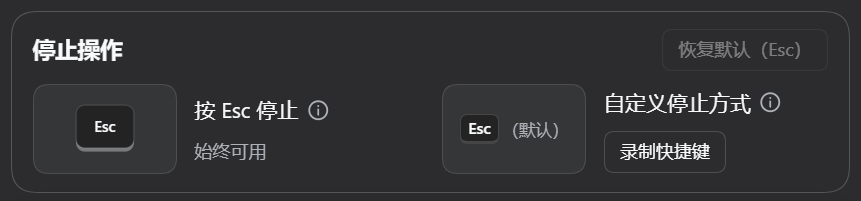
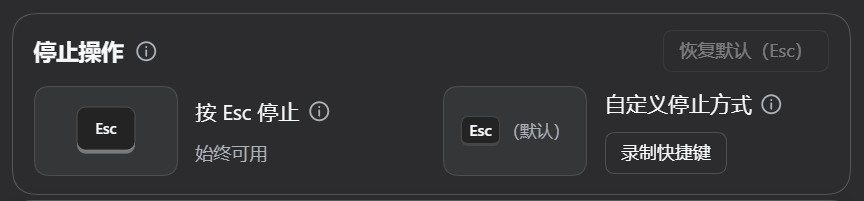
docs: 0.6.0 screenshots and setting names; Excel value-after-dialog note
- README (both files, zh and en): the five settings screenshots are
  recaptured from DSH Desktop 2.0.18 running 0.6.0 (version next to the
  title, folded GitHub link, Custom starting with every tool checked).
  Setting names follow the 0.6.0 interface: 优先使用网页控件, 保留网站登录,
  连接现有浏览器（实验）, 原文 / AI 总结; Connect browser (experimental),
  Source. Section 2 dates the screenshots.
- Diagrams: the same names in how-it-works and architecture; the PNGs are
  re-rendered with render.mjs.
- docs/computer-use-settings.md: setting names aligned with 0.6.0; a
  visible DSH browser idles two hours before closing, not ten minutes.
- Excel instructions: type a value such as the width only after the
  dialog is observed, since keys sent while a key tip did not engage land
  in the cell (seen in the manual Excel run). Tool-context sizes remeasured.

diff --git a/assets/diagrams/architecture.html b/assets/diagrams/architecture.html
@@ -121,7 +121,7 @@ Diagram.render({
     bridge: '官方 MCP 桥', bridge1: '启动服务进程，转发工具调用',
     server: 'MCP 服务', serverTag: 'Node 进程',
     presetAll: '全部 26', presetLite: '精简 12', presetLazy: '懒启动 1', presetCustom: '自定义',
-    server1: '检查参数，再把每次调用交给对应的通道', server2: '输入类操作标为“已发送”，再用 wait_for 确认效果', server3: '超时、按 Esc 或点 DSH 的停止按钮时取消请求', server4: '打开“优先用网页控件操作”时，提示 agent 网页先走浏览器通道',
+    server1: '检查参数，再把每次调用交给对应的通道', server2: '输入类操作标为“已发送”，再用 wait_for 确认效果', server3: '超时、按 Esc 或点 DSH 的停止按钮时取消请求', server4: '打开“优先使用网页控件”时，提示 agent 网页先走浏览器通道',
     helper: '接管助手', helperTag: '独立进程',
     helper1: '用到键鼠时显示边缘光晕、<br>提示条和鼠标旁的 DSH 标签', helper4: '思考与操作浮窗：按步骤<br>显示 DSH 的思考和操作', helper2: '监听 Esc 和你设的快捷键', helper3: '后端正忙时也能收到 Esc',
     lane: '浏览器通道', laneTag: '在 MCP 服务里运行',
@@ -129,8 +129,8 @@ Diagram.render({
     backend: 'PowerShell 后端', backendTag: '常驻运行，一次执行一个请求',
     capUia: '读控件、按按钮、填内容', capInput: '鼠标和键盘', capInput1: '点击、按键、粘贴文字', capWindow: '窗口', capWindow1: '列出、切换、移动、关闭', capCapture: '截图', capCapture1: '整个屏幕或单个窗口', capOcr: '文字识别',
     browser: 'DSH 专用浏览器', browser1: '用你的默认浏览器，也可选 Edge 或 Chrome', browser2: '默认用临时空白配置，不带你的登录和 Cookie', browser3: '默认显示窗口但不抢前台，也可以只在后台运行',
-    browserOwn: '打开“保留网站登录状态”后保留一个配置：<br>在它窗口里登录过的网站一直保持登录',
-    browserAttach: '实验性：打开“操作已打开的浏览器”，并在浏览器里点“允许”后，也能操作你自己已经打开的 Chrome 或 Edge',
+    browserOwn: '打开“保留网站登录”后保留一个配置：<br>在它窗口里登录过的网站一直保持登录',
+    browserAttach: '实验性：打开“连接现有浏览器”，并在浏览器里点“允许”后，也能操作你自己已经打开的 Chrome 或 Edge',
     desktop: '你的 Windows 桌面', app1: '记事本', app2: '浏览器', app3: '计算器', app4: '网易云音乐', app5: '其他程序',
     desktop1: '优先在后台操作控件；要用鼠标键盘时只借用前台，用完还给你', desktop2: '浏览器的工具栏，以及浏览器通道读不到的网页内容（如 iframe），<br>也由电脑操控在这里完成',
     legendOwn: '本插件的代码', legendExt: 'DSH、Windows 或浏览器提供',
@@ -158,7 +158,7 @@ Diagram.render({
     capUia: 'read, press, fill in', capInput: 'Mouse and keys', capInput1: 'click, press keys, paste', capWindow: 'Windows', capWindow1: 'list, switch, move, close', capCapture: 'Capture', capCapture1: 'screen or one window', capOcr: 'Text recognition',
     browser: 'The DSH browser', browser1: 'Your default browser, or Edge or Chrome', browser2: 'By default a fresh temporary profile: none of your sign-ins or cookies', browser3: 'A visible window that does not take the foreground, or background only',
     browserOwn: 'With Keep website sign-ins on, it keeps one profile:<br>sites you sign in to there stay signed in',
-    browserAttach: 'Experimental: with Use an already open browser on and Allow clicked in that browser, it also works in your own Chrome or Edge',
+    browserAttach: 'Experimental: with Connect browser on and Allow clicked in that browser, it also works in your own Chrome or Edge',
     desktop: 'Your Windows desktop', app1: 'Notepad', app2: 'Browser', app3: 'Calculator', app4: 'NetEase Cloud Music', app5: 'Other apps',
     desktop1: 'Uses controls in the background where it can; mouse and keyboard input only borrows the foreground', desktop2: 'Computer Use also handles the browser toolbar and page content the browser lane cannot read, such as iframes',
     legendOwn: 'This plugin’s code', legendExt: 'Provided by DSH, Windows or the browser',

diff --git a/assets/diagrams/how-it-works.html b/assets/diagrams/how-it-works.html
@@ -150,7 +150,7 @@ Diagram.render({
     s1Open: '托盘图标右键 →“打开 DSH 终端”，运行：',
     s1Restart: '再右键托盘图标 →“退出”，然后重新打开 DSH Desktop。',
     s1Settings: '“设置 → 电脑操控”里可以调网页与浏览器、接管提示、思考与操作浮窗和工具。不改也能直接用：',
-    setTitle: '网页与浏览器', setFirst: '优先用网页控件操作', setVisible: '显示 DSH 浏览器窗口',
+    setTitle: '网页与浏览器', setFirst: '优先使用网页控件', setVisible: '显示 DSH 浏览器窗口',
     s2Title: '在对话里布置任务',
     s2Ask: '在浏览器的新窗口中搜索<span class="nb">“晴天”</span>，确认结果页出现<span class="nb">“周杰伦”</span>。',
     rowType: '输入了文本', rowKey: '发送了按键', rowCheck: '检查了操作结果', done: '已完成',

diff --git a/docs/computer-use-settings.md b/docs/computer-use-settings.md
@@ -12,17 +12,17 @@
 
 ### 浏览器操控（Browser Use）
 
-默认打开“网页优先用浏览器操控”和“显示浏览器窗口”。DSH 专用浏览器单独启动，用哪个浏览器由“使用的浏览器”决定：默认跟随 Windows 的默认浏览器，默认浏览器不是 Edge 或 Chrome 时用已安装的 Chrome 或 Edge。默认使用临时的空白配置，不加载扩展，不带你的登录、Cookie 和浏览记录（打开“记住登录”后改用保留的配置，见下段）；退出 DSH 后关闭；无头模式空闲 10 分钟、可见窗口空闲 2 小时后自动关闭，页面活动也延长计时。窗口请求在后台创建，普通网页操作不移动系统鼠标；Chrome 的 JavaScript 模态弹窗实测可能短暂来到前台，不能保证可见浏览器始终不影响焦点；你可以自己切换标签页观看。提示参照 Codex 的浏览器操控，不遮挡网页内容：专用浏览器的窗口框是 DSH 蓝，和你自己的浏览器一眼能分开；DSH 正在操作的标签页，图标换成蓝色箭头，这一轮结束后换回网页自己的图标；网页上一个带光晕的小箭头停在 DSH 点的位置，鼠标点击会穿过它，截图里也没有它。关掉“显示浏览器窗口”后，浏览器在后台运行，没有窗口。JavaScript 模态弹窗会暂停页面脚本，标签页图标在弹窗关闭后同步。
+默认打开“优先使用网页控件”和“显示 DSH 浏览器窗口”。DSH 专用浏览器单独启动，用哪个浏览器由“浏览器类型”决定：默认跟随 Windows 的默认浏览器，默认浏览器不是 Edge 或 Chrome 时用已安装的 Chrome 或 Edge。默认使用临时的空白配置，不加载扩展，不带你的登录、Cookie 和浏览记录（打开“保留网站登录”后改用保留的配置，见下段）；退出 DSH 后关闭；无头模式空闲 10 分钟、可见窗口空闲 2 小时后自动关闭，页面活动也延长计时。窗口请求在后台创建，普通网页操作不移动系统鼠标；Chrome 的 JavaScript 模态弹窗实测可能短暂来到前台，不能保证可见浏览器始终不影响焦点；你可以自己切换标签页观看。提示参照 Codex 的浏览器操控，不遮挡网页内容：专用浏览器的窗口框是 DSH 蓝，和你自己的浏览器一眼能分开；DSH 正在操作的标签页，图标换成蓝色箭头，这一轮结束后换回网页自己的图标；网页上一个带光晕的小箭头停在 DSH 点的位置，鼠标点击会穿过它，截图里也没有它。关掉“显示 DSH 浏览器窗口”后，浏览器在后台运行，没有窗口。JavaScript 模态弹窗会暂停页面脚本，标签页图标在弹窗关闭后同步。
 
-多个 DSH 会话使用同一个保留配置时共用浏览器。结束最早启动它的会话不会关闭其他会话正在用的标签页；最后一个会话退出后正常关闭并保存 Cookie。所有服务意外结束时，独立清理进程会在确认没有活跃会话后关闭浏览器。不同会话的“显示浏览器窗口”设置不一致时会明确报冲突，先结束旧会话或统一设置再重试。
+多个 DSH 会话使用同一个保留配置时共用浏览器。结束最早启动它的会话不会关闭其他会话正在用的标签页；最后一个会话退出后正常关闭并保存 Cookie。所有服务意外结束时，独立清理进程会在确认没有活跃会话后关闭浏览器。不同会话的“显示 DSH 浏览器窗口”设置不一致时会明确报冲突，先结束旧会话或统一设置再重试。
 
-“记住登录（cookies）”默认关闭。打开后，DSH 专用浏览器给每个浏览器保留一个配置（`%LOCALAPPDATA%\dsh-computer-use-win\agent-browser` 下的 `kept-edge`、`kept-chrome`），不再每次用临时配置：你在它的窗口里登录过的网站，之后的任务里还是登录状态，会话 Cookie 也保留。第一次用到要登录的网站时，agent 会请你在这个窗口里登录一次，密码和验证码由你自己输入；“显示浏览器窗口”关着时要先打开它。使用 DSH 专用浏览器时不用设置你自己的浏览器，也不弹允许提示。另选“连接我自己的浏览器”时按下面的实验选项说明操作。用 Edge 时，Edge 会自动用 Windows 上的微软账户登录这个配置，微软自家的网站直接是登录状态（实测 Edge 156 没有开关能关掉）；不想这样就选 Chrome。关掉开关后登录仍然保留，要全部清除，退出 DSH 后删除这个文件夹。打开这个开关时，设置页会说明这些，并列出风险：DSH 会以你的身份操作你在这里登录过的网站；网页上的文字可能诱导 agent；不使用本地调试端口，但登录保存在本地配置文件夹中，同账户下的本机其他程序也能读取使用。更改这两项会在当前动作结束后重连插件服务，并关闭已打开的 DSH 浏览器。
+“保留网站登录”默认关闭。打开后，DSH 专用浏览器给每个浏览器保留一个配置（`%LOCALAPPDATA%\dsh-computer-use-win\agent-browser` 下的 `kept-edge`、`kept-chrome`），不再每次用临时配置：你在它的窗口里登录过的网站，之后的任务里还是登录状态，会话 Cookie 也保留。第一次用到要登录的网站时，agent 会请你在这个窗口里登录一次，密码和验证码由你自己输入；“显示 DSH 浏览器窗口”关着时要先打开它。使用 DSH 专用浏览器时不用设置你自己的浏览器，也不弹允许提示。另选“连接现有浏览器”时按下面的实验选项说明操作。用 Edge 时，Edge 会自动用 Windows 上的微软账户登录这个配置，微软自家的网站直接是登录状态（实测 Edge 156 没有开关能关掉）；不想这样就选 Chrome。关掉开关后登录仍然保留，要全部清除，退出 DSH 后删除这个文件夹。打开这个开关时，设置页会说明这些，并列出风险：DSH 会以你的身份操作你在这里登录过的网站；网页上的文字可能诱导 agent；不使用本地调试端口，但登录保存在本地配置文件夹中，同账户下的本机其他程序也能读取使用。更改这两项会在当前动作结束后重连插件服务，并关闭已打开的 DSH 浏览器。
 
 浏览器操控、读取界面（截图、控件树、文字识别、等待）和在后台完成的控件操作，都不显示屏幕边缘、提示条和鼠标标签，也不挂全局 Esc：这样的一轮操作里，你在其他程序按 Esc 不会被拦下；要停止，用 DSH 里的停止按钮。同一轮里一旦用到真实的鼠标或键盘，接管提示和 Esc 从这一步开始照常生效；按 Esc 停下的一轮，后续的浏览器操控也不再执行。
 
 网页能完成的步骤优先使用浏览器通道；原生应用、浏览器工具栏、无可用 CDP 连接、浏览器通道无法处理的内容，转为同一目标窗口的 UIA，再用截图/OCR/坐标兜底。必须重新读取桌面状态，不把网页坐标当屏幕坐标。不确定是否成功的动作先观察再决定，不能盲目重放。停止、取消、权限拒绝、禁用或只读控件，不允许通过桌面输入绕过。临时浏览器没有用户登录状态，不能代替已登录工作流。精简/自定义禁用 set_value 时不能新开标签页。设置修改在当前动作完成后重连，会关闭临时浏览器。
 
-Firefox 系网页通道为实验功能：选择“Firefox 系（实验性）”后，自动启动需关闭“显示浏览器窗口”；也可以通过显式 BiDi 端点连接单独启动的浏览器。默认浏览器选项仍按上述 Chrome/Edge 规则回退。Firefox 不具备上述蓝色状态提示、可见登录和多会话共享流程；具体范围见 [BiDi 说明](browser-bidi.md)。桌面通道读取现有 Gecko 窗口无需启用实验选项。
+Firefox 系网页通道为实验功能：选择“Firefox 系（实验性）”后，自动启动需关闭“显示 DSH 浏览器窗口”；也可以通过显式 BiDi 端点连接单独启动的浏览器。默认浏览器选项仍按上述 Chrome/Edge 规则回退。Firefox 不具备上述蓝色状态提示、可见登录和多会话共享流程；具体范围见 [BiDi 说明](browser-bidi.md)。桌面通道读取现有 Gecko 窗口无需启用实验选项。
 
 ### 工具加载
 
@@ -58,13 +58,13 @@ Upgrade and fully restart DSH Desktop, then open **Settings → Computer Use** (
 
 The plugin list shows a short introduction that opens the complete settings page. Star and Issue links stay at the top of that page; Collapse folds that note into one dsh-computer-use-win link with the GitHub mark and Expand restores it. The choice saves at once, persists across restarts and upgrades, and neither saves nor discards other pending changes. An unavailable host form shows an explicit state and cannot be edited. Version 0.4.3 supplies live-field metadata and the shared reference protocol for mixed-version validators, and confirms saved values against the host response.
 
-Prefer Browser Use for web pages and Show the browser window are on by default. The DSH browser starts separately, in the browser chosen under Browser (by default the Windows default browser, and an installed Chrome or Edge when that is neither), with no extensions and, by default, a temporary empty profile: none of your sign-ins, cookies or history (with Keep sign-ins on it keeps one profile instead; see below). It closes when DSH exits or after 10 idle minutes. Its window is requested in the background and page actions never move the desktop pointer. Chrome JavaScript modal dialogs may briefly activate the window, so visible operation is not an unconditional focus guarantee. As in Codex's Browser Use, nothing covers the page: the window frame is DSH blue, so it is never taken for your own browser; the tab DSH works in shows a blue arrow as its icon until the turn ends, then its own icon again; and a small glowing arrow rests where DSH clicks. Clicks pass through the arrow, and screenshots leave it out. With Show the browser window off, the browser runs in the background with no window. Browser Use, reads (screenshots, control trees, OCR, waits) and control actions done in the background show no screen edges, banner or pointer tag and arm no global Esc, so Esc keeps working in your other apps; stop such a turn with the stop button in DSH. Once a turn uses the real mouse or keyboard, the indicator and Esc apply from that call on, and a series stopped with Esc refuses its later Browser Use calls too.
+Prefer web page controls and Show the DSH browser window are on by default. The DSH browser starts separately, in the browser chosen under Browser type (by default the Windows default browser, and an installed Chrome or Edge when that is neither), with no extensions and, by default, a temporary empty profile: none of your sign-ins, cookies or history (with Keep website sign-ins on it keeps one profile instead; see below). It closes when DSH exits, after 10 idle minutes when headless, or after two idle hours with a visible window. Its window is requested in the background and page actions never move the desktop pointer. Chrome JavaScript modal dialogs may briefly activate the window, so visible operation is not an unconditional focus guarantee. As in Codex's Browser Use, nothing covers the page: the window frame is DSH blue, so it is never taken for your own browser; the tab DSH works in shows a blue arrow as its icon until the turn ends, then its own icon again; and a small glowing arrow rests where DSH clicks. Clicks pass through the arrow, and screenshots leave it out. With Show the DSH browser window off, the browser runs in the background with no window. Browser Use, reads (screenshots, control trees, OCR, waits) and control actions done in the background show no screen edges, banner or pointer tag and arm no global Esc, so Esc keeps working in your other apps; stop such a turn with the stop button in DSH. Once a turn uses the real mouse or keyboard, the indicator and Esc apply from that call on, and a series stopped with Esc refuses its later Browser Use calls too.
 
-DSH sessions using the same kept profile share one browser. Ending its first client preserves other clients’ tabs; the last client closes it gracefully to save cookies. A detached cleanup watcher closes it after all clients unexpectedly exit. Conflicting Show browser window settings produce an explicit error; end the older session or align the settings before retrying.
+DSH sessions using the same kept profile share one browser. Ending its first client preserves other clients’ tabs; the last client closes it gracefully to save cookies. A detached cleanup watcher closes it after all clients unexpectedly exit. Conflicting Show the DSH browser window settings produce an explicit error; end the older session or align the settings before retrying.
 
-Keep sign-ins (cookies) is off by default. When on, the DSH browser keeps one profile per browser (`kept-edge`, `kept-chrome` under `%LOCALAPPDATA%\dsh-computer-use-win\agent-browser`) instead of a temporary one: sites you sign in to in its window stay signed in for later tasks, session cookies included. The first time a task needs a site that asks you to sign in, the agent asks you to sign in once in that window; you type passwords and codes yourself, and Show the browser window must be on. Your own browser is never touched: no remote debugging to turn on and no prompts to allow. With Edge, Edge signs this profile in with the Microsoft account of your Windows, so Microsoft’s own sites are signed in already (Edge 156 has no switch for this); choose Chrome to avoid it. Sign-ins stay when you turn the switch off; to remove them all, exit DSH and delete the folder. With the switch on, the settings page explains this and lists the risks: DSH acts as you on the sites you signed in to there; page text can try to steer the agent; no local debugging port is opened, though other programs under your Windows account can still read sign-ins stored in that profile folder. Changing Browser or Keep sign-ins reconnects the plugin’s server after the current action and closes open DSH browsers.
+Keep website sign-ins is off by default. When on, the DSH browser keeps one profile per browser (`kept-edge`, `kept-chrome` under `%LOCALAPPDATA%\dsh-computer-use-win\agent-browser`) instead of a temporary one: sites you sign in to in its window stay signed in for later tasks, session cookies included. The first time a task needs a site that asks you to sign in, the agent asks you to sign in once in that window; you type passwords and codes yourself, and Show the DSH browser window must be on. Your own browser is never touched: no remote debugging to turn on and no prompts to allow. With Edge, Edge signs this profile in with the Microsoft account of your Windows, so Microsoft’s own sites are signed in already (Edge 156 has no switch for this); choose Chrome to avoid it. Sign-ins stay when you turn the switch off; to remove them all, exit DSH and delete the folder. With the switch on, the settings page explains this and lists the risks: DSH acts as you on the sites you signed in to there; page text can try to steer the agent; no local debugging port is opened, though other programs under your Windows account can still read sign-ins stored in that profile folder. Changing Browser type or Keep website sign-ins reconnects the plugin’s server after the current action and closes open DSH browsers.
 
-Firefox-family Browser Use is experimental: select Firefox family, or configure a separately started BiDi endpoint. The Firefox that the plugin starts runs headless, so choosing Firefox family turns Show the browser window off and locks it until another browser is chosen, which restores its earlier state. Discovery starts with the Windows default browser when it is a Firefox-family one. The default selection retains its Chrome/Edge fallback. The blue status UI, automatic visible sign-in and cross-client sharing described above do not apply to BiDi; see [its scope](browser-bidi.md). Gecko desktop accessibility does not require this option.
+Firefox-family Browser Use is experimental: select Firefox family, or configure a separately started BiDi endpoint. The Firefox that the plugin starts runs headless, so choosing Firefox family turns Show the DSH browser window off and locks it until another browser is chosen, which restores its earlier state. Discovery starts with the Windows default browser when it is a Firefox-family one. The default selection retains its Chrome/Edge fallback. The blue status UI, automatic visible sign-in and cross-client sharing described above do not apply to BiDi; see [its scope](browser-bidi.md). Gecko desktop accessibility does not require this option.
 
 Choose **All / Lite / Lazy / Custom** in one row; a line below describes the selected preset, and each setting shows a small picture of its effect beside its name and switch, two to a row. Details open above the ⓘ icon on hover, click or keyboard focus, so the pointer never covers them; the pointer can move onto the text, a click keeps it open, and Esc or a click elsewhere closes it. All is the default (26 entries); Lite loads 12. Custom reveals the indented checklist with individual/group selection, select-all and disable-all. Preset changes preserve your custom selection. Save applies after the current action finishes and survives restart. Management cannot re-enable user-disabled tools.
 
@@ -88,7 +88,7 @@ Cancellation is cooperative at segmented-input and post-resolution execution bou
 
 详细设置默认收起在 **更多选项** 中，展开后可调整不透明度、大小、位置和锁定快捷键。标题栏标明“即时生效”的显示开关、锁定开关与 **打开浮窗并调整** 按钮始终可见，拨动开关立即应用。
 
-**浮窗内容** 提供两种模式，默认选择 **直接显示 DSH 输出**：按步骤转发现有输出，不额外调用模型、不增加模型 token。选择 **AI 总结当前操作** 后，使用当前对话所选的模型（不开推理），把已完成的步骤和正在做的操作写成一两句易懂的话，会额外消耗输入和输出 token：开始约 1.5 秒后请求第一条，之后最多每 10 秒一次，内容不变时不重复请求；任务结束时再请求一次结果总结。新的一步不会打断正在生成的总结，上一条总结一直显示到下一条出来，标题注明是第几步时的总结。输入只有动作名和已经显示的文字，限 2400 字符；输出最多 192 token，8 秒超时。总结不会加入对话上下文，也不会执行工具；暂不可用时显示操作步骤，结束后显示回复原文。关闭浮窗、切回原文或换到下一轮会取消在途总结，已消耗的 token 不能撤回。约 40 秒的任务大约请求 4–5 次。
+**浮窗内容** 提供两种模式，默认选择 **原文**：按步骤转发现有输出，不额外调用模型、不增加模型 token。选择 **AI 总结** 后，使用当前对话所选的模型（不开推理），把已完成的步骤和正在做的操作写成一两句易懂的话，会额外消耗输入和输出 token：开始约 1.5 秒后请求第一条，之后最多每 10 秒一次，内容不变时不重复请求；任务结束时再请求一次结果总结。新的一步不会打断正在生成的总结，上一条总结一直显示到下一条出来，标题注明是第几步时的总结。输入只有动作名和已经显示的文字，限 2400 字符；输出最多 192 token，8 秒超时。总结不会加入对话上下文，也不会执行工具；暂不可用时显示操作步骤，结束后显示回复原文。关闭浮窗、切回原文或换到下一轮会取消在途总结，已消耗的 token 不能撤回。约 40 秒的任务大约请求 4–5 次。
 
 不透明度可设 20–100%，宽度 240–1600 像素，高度 160–1600 像素；位置可选四角或自定义 X/Y（支持负坐标）。锁定时不抢焦点、鼠标穿透，不会挡住你或 DSH 的点击。右上角的锁形图标就是锁定按钮：把光标移上去停约 0.4 秒（按钮上转一圈进度环），浮窗临时解锁，可以拖标题移动、拖边缘缩放、滚动正文；光标离开浮窗约 1.5 秒后自动锁回，点开锁图标则立即锁回。临时解锁不改锁定设置，期间的移动和缩放照常保存；锁回后光标要先离开按钮，再停上去才会再次解锁。悬停解锁只认物理鼠标（低级鼠标钩子里没有注入标记的移动），DSH 用 SendInput 发出的输入和用 SetCursorPos 移过去的光标都不会触发；远程控制软件注入的鼠标同样不会触发，这时请用锁定开关或快捷键。解锁时（设置里关闭锁定、预览或悬停解锁）右上角是开锁图标和 ×：点开锁图标锁定（设置里本来是解锁的，会把锁定写回设置），点 × 仅关闭当前预览或收起本轮浮窗，不会关掉设置里的浮窗开关（下轮任务仍照常显示）。正在悬停解锁或拖动时，任务结束、保留期满或预览到时都会等调整完再收起。锁定快捷键可自定义，例如 `Ctrl+Alt+P`，再次按下切换锁定；不能使用 Esc 或与停止键重复。留空时仍可从设置页切换锁定。
 
@@ -108,4 +108,4 @@ Cancellation is cooperative at segmented-input and post-resolution execution bou
 
 The progress overlay is **on by default** and can be disabled under Settings → Computer Use. It shows the work step by step: one heading per model step with plain-language action names taken from tool names and the shape of the call only (never typed text, URLs or coordinates), followed by the reasoning and reply DSH already emitted for that step; older steps keep their last lines and the last 24 steps can be scrolled back. When the turn ends the header reads done, stopped or error with the step count and time taken, and the overlay stays 20 seconds, showing a long reply from its start (the first 1,200 characters, ending in “…”, for a longer one). Summary mode asks the conversation's model (reasoning off) for a sentence or two about 1.5 s after work starts, then at most every 10 s, and once more for the result when the turn ends; a new step does not cancel a running summary. Configure opacity (20–100%), width/height, a corner or custom X/Y, locked state and a lock shortcut. Locked passes mouse input through, and the padlock in the top-right corner is the lock button: resting the user's own pointer on it for about 0.4 s (a ring fills) unlocks the overlay until the pointer has been away for about 1.5 s, so it can be dragged by the title, resized at the edges and scrolled; clicking the open padlock locks it at once. This temporary unlock never changes the saved lock setting, while moves and resizes are saved as usual. Only physical mouse movement counts (low-level hook events without the injected flag), so neither DSH's SendInput input nor a cursor it placed with SetCursorPos can unlock it; mouse input injected by remote-control software cannot either, so use the switch or the shortcut there. Unlocked, the overlay shows the open padlock (click to lock; this saves the lock when the setting was unlocked) and × to close (closing the adjustment preview or dismissing only the current turn without turning off the overlay setting), without activation. An overlay being adjusted stays until the user is done, and a quick second move or resize is not pulled back by the settings echo of the first. **Open overlay to adjust** saves and applies overlay tuning right away without saving the rest of the form (while the display and lock switches above apply immediately, marked **Saves instantly** in the header) and shows a 60-second preview that is unlocked only while it lasts; clicking × finishes the preview cleanly without turning off the overlay feature, and otherwise the saved lock state is restored afterwards unless the user toggles it during the preview. Menu edits and native move/resize/lock events use the same DSH settings service and persist together. Stale native events cannot overwrite newer menu values. Only the current computer-use session's emitted reasoning/reply text is displayed; models with no reasoning output show status only. The overlay alone never arms the desktop Esc stop key.
 
-Attach to my own browser is experimental and off by default. Enable remote debugging in the selected browser's inspect page. Listing reads its port file without a handshake. Ask the user to allow the connection, then `set_value` the offered `<browser id>:connect` handle to `connect`. The selected browser alone is offered; Firefox family is unsupported. There is no automatic retry after refusal/timeout/cancellation. Close any old prompt before explicitly retrying. Connection grants access to signed-in pages; only use requested or DSH-opened tabs and keep the existing confirmation rules for consequential actions. Disconnecting never closes this browser.
+Connect browser (experimental) is off by default. Enable remote debugging in the selected browser's inspect page. Listing reads its port file without a handshake. Ask the user to allow the connection, then `set_value` the offered `<browser id>:connect` handle to `connect`. The selected browser alone is offered; Firefox family is unsupported. There is no automatic retry after refusal/timeout/cancellation. Close any old prompt before explicitly retrying. Connection grants access to signed-in pages; only use requested or DSH-opened tabs and keep the existing confirmation rules for consequential actions. Disconnecting never closes this browser.

diff --git a/CHANGELOG.md b/CHANGELOG.md
@@ -16,7 +16,7 @@
   - 点元素之前先确认它看得见、能用，而且那个位置上确实是它，被别的东西挡住就不点；同一程序的其他窗口（比如另一个资源管理器窗口）不再当作目标窗口。/ Element clicks check that the element is visible, enabled and really under the point; other windows of the same program no longer count as the target.
   - 按窗口标题找窗口时，先找完全相同的，再找开头相同的，最后找包含的；对上多个就报错并列出候选窗口的句柄，不再随便挑第一个。只给进程号时，只在有标题、看得见的窗口里挑，程序自带的隐藏窗口（输入法、DDE 等）不算。/ A window title matches exactly, then by prefix, then as a substring, and several matches are refused with the candidates' handles; a process id alone picks among titled visible windows, ignoring a program's hidden helper windows.
   - 坐标点击不再悄悄按“窗口挪动了多少”去改位置；需要按窗口移动修正时，把观察结果里的 `observationToken` 一起传回。/ Coordinate clicks are corrected for window movement only when the observation's `observationToken` is passed back.
-  - `keypress` 新增 `thenKeys`：一次调用按顺序按下几组键，整个过程只借用一次前台，中间不把前台还回去，所以 Excel 功能区的 Alt、H、O、W 这类连续按键不会被打断；每组键之前照常检查 Esc 和前台，出错就停下，已经按下的键不会重发。给模型的说明里也补上了 Excel 排版的做法：用 Ctrl+G 选定区域，列宽填数字或自动调整，长文字设好宽度后打开自动换行，再自动调整行高，最后检查保存的结果。/ `keypress` takes `thenKeys`: several chords in order within one foreground lease, so Excel Ribbon sequences such as Alt, H, O, W are not interrupted; each chord still checks Esc and the foreground, and a failure stops without resending keys. The model instructions also describe Excel layout: select with Ctrl+G, numeric or AutoFit column widths, Wrap Text for long text, AutoFit row height, then check the saved result.
+  - `keypress` 新增 `thenKeys`：一次调用按顺序按下几组键，整个过程只借用一次前台，中间不把前台还回去，所以 Excel 功能区的 Alt、H、O、W 这类连续按键不会被打断；每组键之前照常检查 Esc 和前台，出错就停下，已经按下的键不会重发。给模型的说明里也补上了 Excel 排版的做法：用 Ctrl+G 选定区域，列宽填数字或自动调整（数值等对话框出现后再输入），长文字设好宽度后打开自动换行，再自动调整行高，最后检查保存的结果。/ `keypress` takes `thenKeys`: several chords in order within one foreground lease, so Excel Ribbon sequences such as Alt, H, O, W are not interrupted; each chord still checks Esc and the foreground, and a failure stops without resending keys. The model instructions also describe Excel layout: select with Ctrl+G, numeric or AutoFit column widths (values typed once the dialog shows), Wrap Text for long text, AutoFit row height, then check the saved result.
   - `launch_app` 拒绝网络路径；快捷方式按它实际指向的程序判断；python、node 等脚本解释器带参数时同样拒绝。/ `launch_app` refuses network paths, judges a shortcut by the program it starts, and refuses arguments for more script interpreters.
 - 剪贴板：粘贴的文字标记为不进剪贴板历史、不上传云剪贴板、剪贴板监控程序不处理；目标程序读走文字以后才恢复你原来的剪贴板，目标一直没来读，就把这次的文字留在剪贴板上并在结果里注明，免得慢一点的程序粘进你原来的内容。记事本、写字板这类原生输入框改为直接粘贴，粘贴完成就恢复；UU 远程这类会先读走剪贴板的软件开着时也能恢复（以前会一直等不到确认）。/ Pasted text is marked to stay out of clipboard history, cloud clipboard and monitors. Your clipboard is restored only after the target has read the text; otherwise the text stays and the result says so. Native edit boxes such as Notepad and WordPad paste directly and restore as soon as the paste completes, also while a tool that reads the clipboard first, such as UU Remote, is running.
 - 截图：窗口截图会带上这个窗口自己弹出的对话框和菜单，比如 Excel 的“列宽”对话框，模型不会再以为命令没生效而重复操作；插件自己截图和做文字识别时，屏幕提示和浮窗暂时不进截图；删掉了从来没能编译成功的 WGC 截图代码（实际一直用 PrintWindow 和屏幕区域截图）。/ Window screenshots include the window's own dialogs and menus, such as Excel's Column Width box, so the model no longer repeats a command that did work. The plugin's own screenshots and OCR leave out its indicators and overlay; the WGC capture code, which never compiled, is removed.

diff --git a/docs/tool-context.md b/docs/tool-context.md
@@ -10,11 +10,11 @@ Choose Lite / All / Lazy / Custom in the outer preset selector; All is the defau
 
 `toolPreset: "lazy"` permits all 26 tools but starts with management only. Enable the tools needed for a task using a name array, or use `names: ["*"]` with enable/disable for all allowed desktop tools. Management stays loaded. The wildcard must stand alone and is rejected for list/describe/reset. Lite and Custom restrictions still apply. Reset and reconnect return Lazy to its single management entry.
 
-收益来自尚未加载的工具定义；加载后的定义仍占上下文，已有对话记录不会删除。桌面任务需要额外的加载调用。0.6.0 同口径列表为：全部 27,133、精简 13,195、懒启动 703 字符（较全部减少 97.4%；初始化说明 2,994 字符），并非 token 数。
+收益来自尚未加载的工具定义；加载后的定义仍占上下文，已有对话记录不会删除。桌面任务需要额外的加载调用。0.6.0 同口径列表为：全部 27,133、精简 13,195、懒启动 703 字符（较全部减少 97.4%；初始化说明 3,125 字符），并非 token 数。
 
 启动集合只剩管理入口、且至少允许一项桌面工具时（懒启动即属此类），服务器在 MCP `initialize` 返回 `instructions`，说明这台电脑能读取与操作真实 Windows 应用，并提示先 `enable` 再用。原因是这一状态下没有任何桌面工具名可供模型推断能力；`instructions` 会被支持它的客户端作为该服务的说明注入模型上下文，DSH 即把它发布成 `mcp:<serverName>` 系统提示词段落。其他启动集合不返回该字段：能力仍由工具名与其说明表达；若自定义清单不允许任何桌面工具，启用会被拒绝，此时不声明该能力。
 
-Savings apply to definitions not yet loaded. Loaded definitions and conversation history still use context, and desktop tasks need a loading call. Current 0.6.0 definitions are measured by `node test/measure-tool-context.mjs --write` (All: 27,133, Lite: 13,195, Lazy: 703 chars — 97.4% smaller; Lazy initialization `instructions`: 2,994 chars); see [tool-context-sizes.json](tool-context-sizes.json) for versioned sizes. These are serialized character counts, not token counts.
+Savings apply to definitions not yet loaded. Loaded definitions and conversation history still use context, and desktop tasks need a loading call. Current 0.6.0 definitions are measured by `node test/measure-tool-context.mjs --write` (All: 27,133, Lite: 13,195, Lazy: 703 chars — 97.4% smaller; Lazy initialization `instructions`: 3,125 chars); see [tool-context-sizes.json](tool-context-sizes.json) for versioned sizes. These are serialized character counts, not token counts.
 
 When the startup set is the management entry alone and at least one desktop tool is allowed — which is what Lazy startup does — the server returns MCP `initialize` `instructions` stating that this machine's Windows applications can be read and operated, and that tools must be enabled first. In that state no desktop tool name remains for a model to infer capability from. Clients that surface server instructions add them as text attributed to this server; DSH publishes them as the `mcp:<serverName>` system-prompt section. Other startup sets omit the field: the tool names and their descriptions already carry the capability, and a Custom checklist that allows no desktop tool is excluded because enabling one is refused.
 

diff --git a/docs/wiki/mcp-tools.md b/docs/wiki/mcp-tools.md
@@ -260,6 +260,7 @@ Press a key or key chord, such as Ctrl+L, Enter, Alt+F4, or Shift+Tab. The Windo
 
 For Excel Ribbon commands, keep the chord sequence in one foreground lease:
 `{"keys":["alt","h"],"thenKeys":[["o"],["w"]]}` opens Column Width.
+Send a value such as the width in a separate call after the dialog is observed: if a key tip does not engage, later keys land in the active cell.
 Each chord still checks cancellation and the target foreground. A failed chord stops the sequence and restores the borrowed foreground; sent chords are not replayed.
 
 For spreadsheet layout, select the range with Ctrl+G and the observed Go To dialog.
